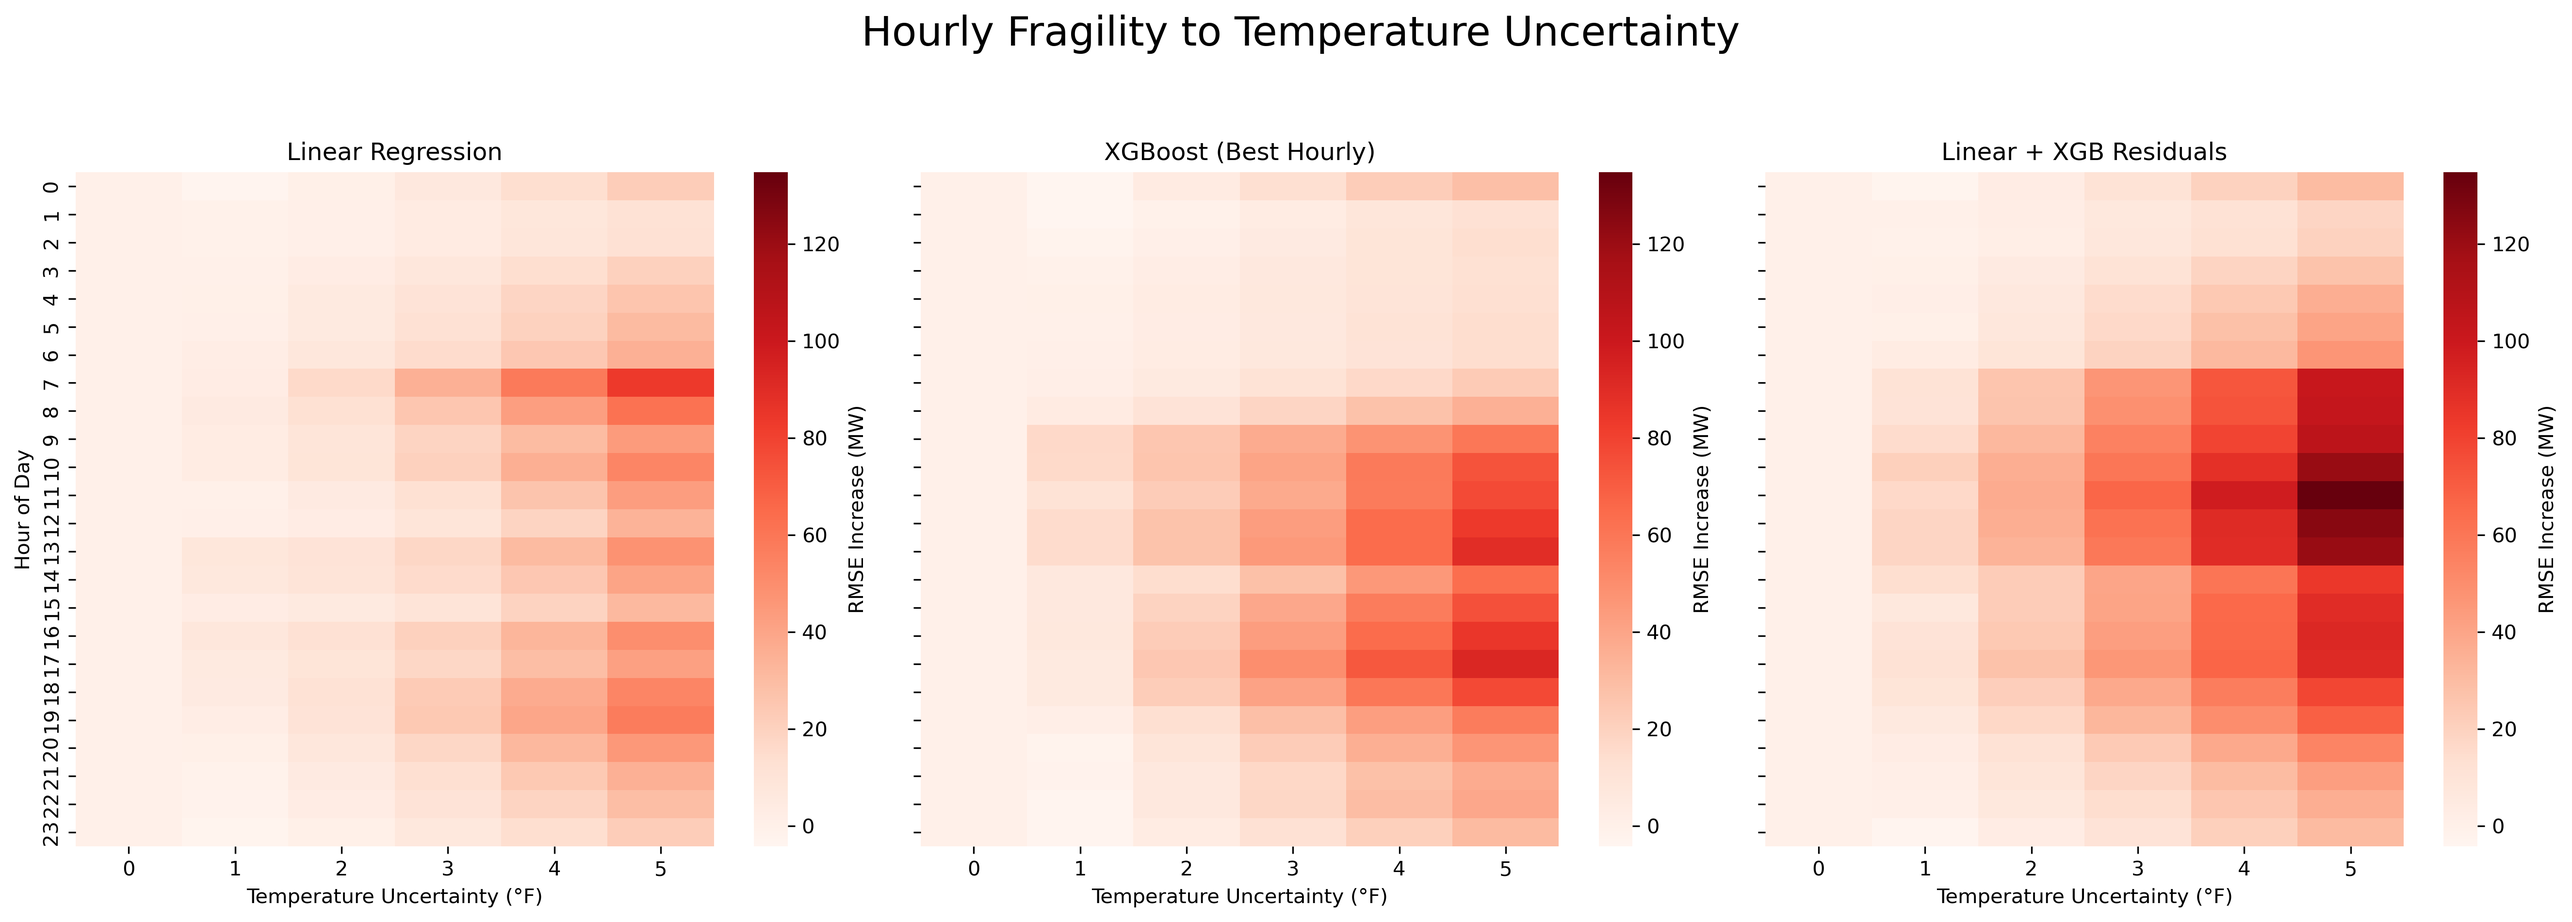
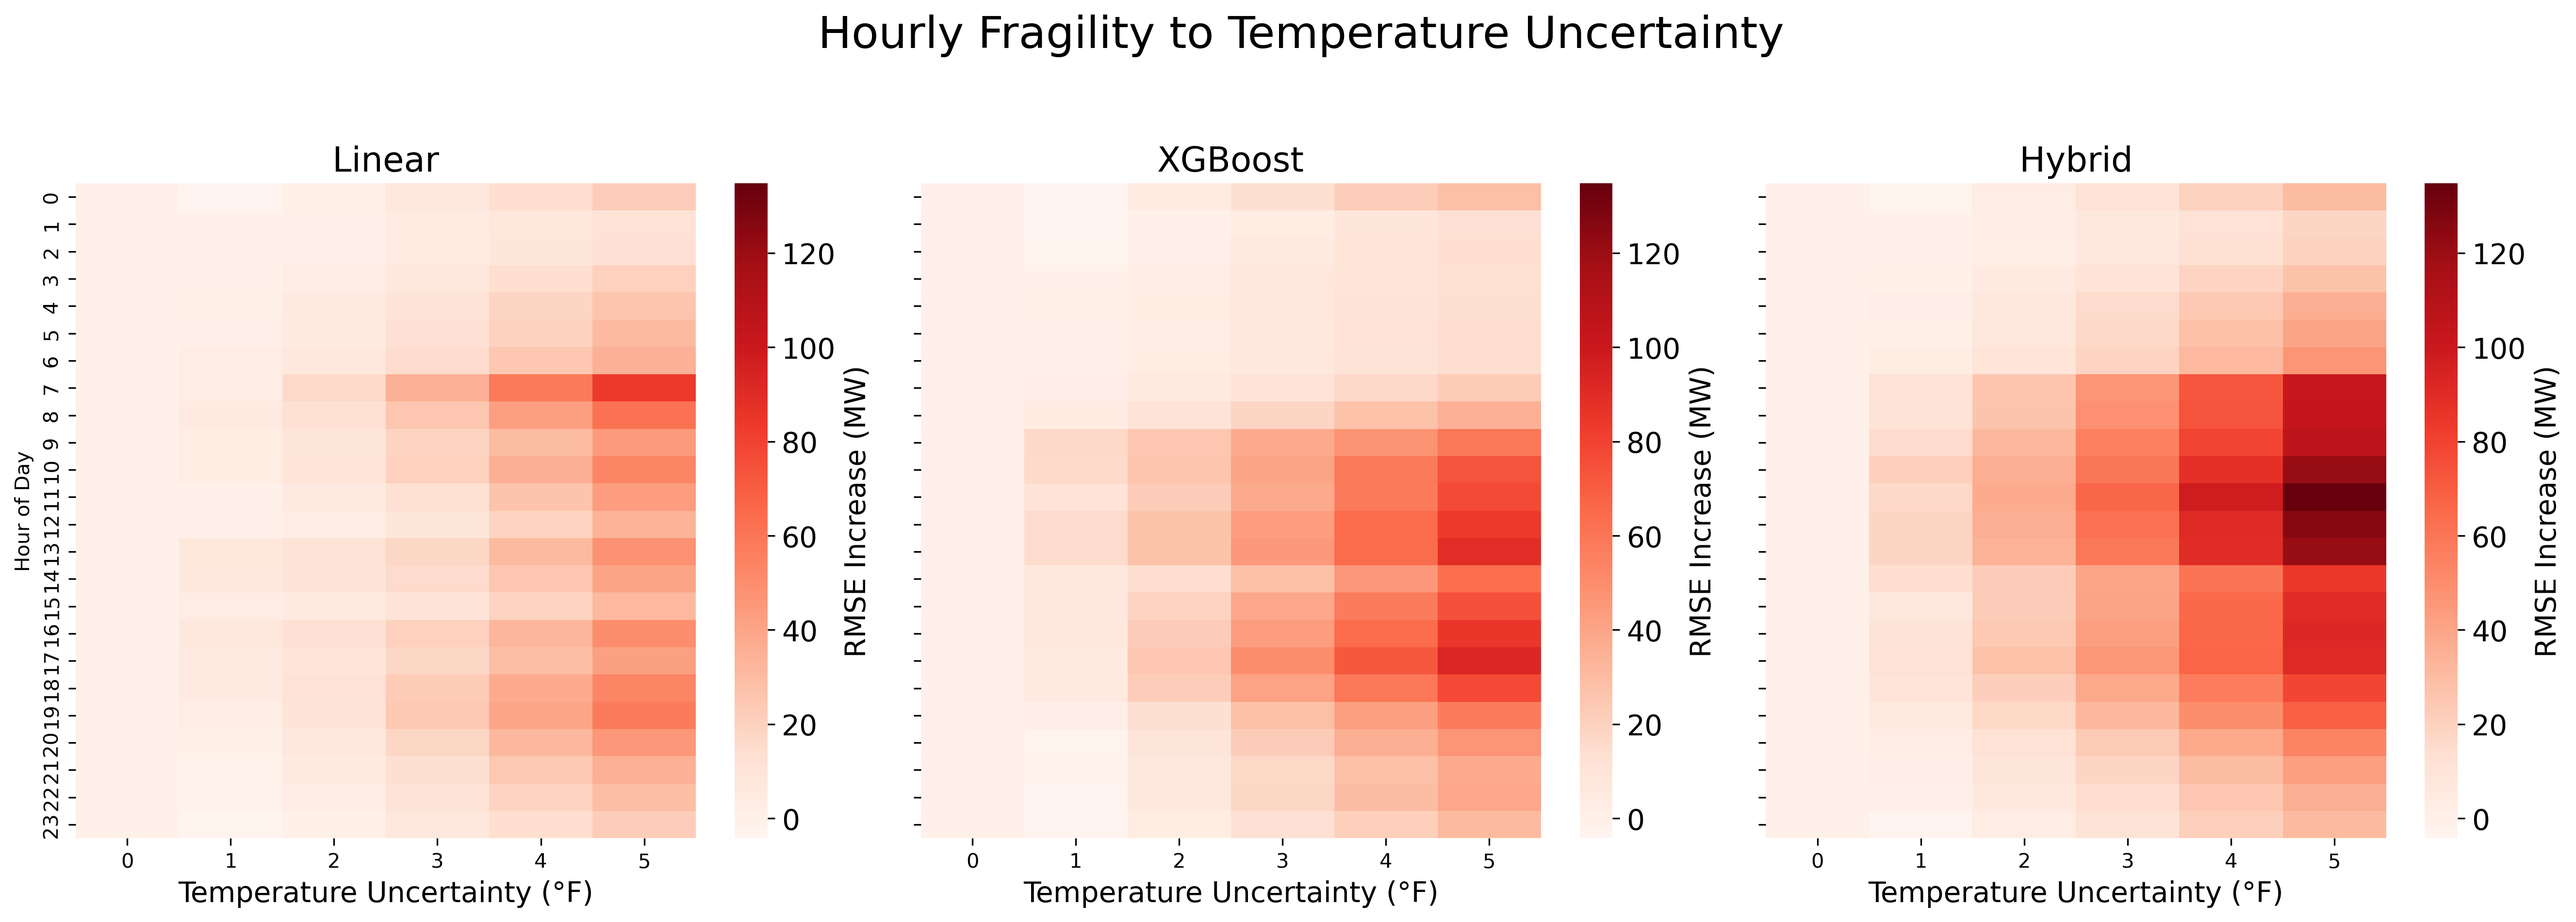
updated results, cleaned plots

diff --git a/src/results/create_plots.py b/src/results/create_plots.py
@@ -22,12 +22,12 @@ hour_df = pd.read_csv(ROOT / "data" / "results" / "day_ahead_temp_uncertainty_fi
 
 model_class_names = ["linears", "xgb_best_per_hour", "lin_xgb_best_per_hour"]
 model_class_titles = {
-    "linears": "Linear Regression",
-    "xgb_best_per_hour": "XGBoost (Best Hourly)",
-    "lin_xgb_best_per_hour": "Linear + XGB Residuals"
+    "linears": "Linear",
+    "xgb_best_per_hour": "XGBoost",
+    "lin_xgb_best_per_hour": "Hybrid"
 }
 
-title_font = 16
+title_font = 14
 label_font = 14
 tick_font = 12
 legend_font = 12
@@ -67,7 +67,6 @@ bars_total = ax.bar(x - width/2, total_rmse_vals, width, label='All Hours', colo
 bars_top10 = ax.bar(x + width/2, top10_rmse_vals, width, label='Top 10% Load', color=bar_colors[1])
 
 ax.set_ylabel('RMSE (MW)', fontsize=label_font)
-ax.set_title("RMSE Comparison Using True Future Temperatures\n(All Hours vs Top 10% Load)", fontsize=14)
 ax.set_xticks(x)
 ax.set_xticklabels([model_class_titles[m] for m in model_class_names], fontsize=tick_font)
 ax.legend(fontsize=legend_font)
@@ -81,6 +80,7 @@ for b in bars_total + bars_top10:
                 textcoords="offset points",
                 ha='center', va='bottom')
 
+plt.suptitle("RMSE Comparison Under Ideal Conditions\n(All Hours vs Top 10% Load)", fontsize=title_font + 2)
 plt.tight_layout()
 fig.savefig(ROOT / "plots" / "baseline_top10_rmse_bar.png", dpi=300, bbox_inches="tight")
 
@@ -102,20 +102,52 @@ for i, (rmse_df, title) in enumerate([(test_rmse, "Total RMSE"), (top_10_pct_loa
                             df['test_error'] - df['test_std'],
                             df['test_error'] + df['test_std'],
                             alpha=alpha_std, color=palette[j])
-    ax.set_title(f"{title} vs Temperature Uncertainty", fontsize=14)
+    ax.set_title(f"{title} vs Temperature Uncertainty", fontsize=title_font)
     ax.set_xlabel("Temperature Uncertainty (°F)", fontsize=label_font)
-    ax.set_ylabel("RMSE (MW)", fontsize=label_font)
+    if i==0:
+        ax.set_ylabel("RMSE (MW)", fontsize=label_font)
     ax.set_xlim(0, temp_unc_limit)
-    ax.set_ylim(0, 500)
+    ax.set_ylim(0, 400)
     ax.grid(True, alpha=0.3)
     ax.tick_params(axis='both', labelsize=tick_font)
 
 handles, labels = axes[0].get_legend_handles_labels()
-fig.legend(handles, labels, loc='center right', bbox_to_anchor=(1.08, 0.5),
+fig.legend(handles, labels, loc='center right', bbox_to_anchor=(0.17, 0.715),
            title='Models', fontsize=legend_font, title_fontsize=legend_font)
+
+plt.suptitle("Model Performance vs Temperature Forecast Uncertainty (2022 Test Set)", fontsize=title_font+2)
 plt.tight_layout(rect=[0,0,0.88,1])
 fig.savefig(ROOT / "plots" / "baseline_top10_rmse_uncertainty_plot.png", dpi=300, bbox_inches="tight")
 
+# Isolate Top 10% Load RMSE plot
+
+fig, ax = plt.subplots(figsize=(8,5))  # single plot, adjust size as needed
+
+for j, model_name in enumerate(model_class_names):
+    df = top_10_pct_load_df[top_10_pct_load_df['model_name']==model_name].copy()
+    df = df[df['temp_uncertainty'] <= temp_unc_limit].sort_values('temp_uncertainty')
+    
+    ax.plot(df['temp_uncertainty'], df['test_error'],
+            marker='o', linewidth=line_width, markersize=marker_size,
+            color=palette[j], label=model_class_titles[model_name])
+    
+    if 'test_std' in df.columns:
+        ax.fill_between(df['temp_uncertainty'],
+                        df['test_error'] - df['test_std'],
+                        df['test_error'] + df['test_std'],
+                        alpha=alpha_std, color=palette[j])
+
+ax.set_title("RMSE vs Temperature Uncertainty over Top 10% Load Hours", fontsize=title_font)
+ax.set_xlabel("Temperature Uncertainty (°F)", fontsize=label_font)
+ax.set_ylabel("RMSE (MW)", fontsize=label_font)
+ax.set_xlim(0, temp_unc_limit)
+ax.set_ylim(0, 400)
+ax.grid(True, alpha=0.3)
+ax.tick_params(axis='both', labelsize=tick_font)
+ax.legend(fontsize=legend_font, loc="lower right")
+
+plt.tight_layout()
+fig.savefig(ROOT / "plots" / "top10_load_rmse_uncertainty_plot.png", dpi=300, bbox_inches="tight")
 
 # Seasonal Absolute RMSE
 
@@ -144,10 +176,11 @@ for i, season_key in enumerate(['Winter','Summer']):
     ax.tick_params(axis='both', labelsize=tick_font)
 
 handles, labels = axes[0].get_legend_handles_labels()
-fig.legend(handles, labels, loc='center right', bbox_to_anchor=(1.08, 0.5),
+fig.legend(handles, labels, loc='center right', bbox_to_anchor=(0.27, 0.65),
            title='Models', fontsize=legend_font, title_fontsize=legend_font)
-plt.suptitle("Model Performance Across Seasons", fontsize=title_font+2)
 
+
+plt.suptitle("Model Performance vs Season (2022 Test Set)", fontsize=title_font+2)
 plt.tight_layout(rect=[0,0,0.88,0.95])
 fig.savefig(ROOT / "plots" / "seasonal_rmse_uncertainty_plot.png", dpi=300, bbox_inches="tight")
 
@@ -165,51 +198,57 @@ for i, model_name in enumerate(model_class_names):
     heatmap_data = df.pivot(index='Hour', columns='temp_uncertainty', values='test_error')
     sns.heatmap(heatmap_data, ax=ax, cmap='viridis', annot=False,
                 vmin=vmin, vmax=vmax, cbar_kws={'label':'RMSE (MW)'})
-    ax.set_title(model_class_titles[model_name])
-    ax.set_xlabel("Temperature Uncertainty (°F)")
+
+    cbar = ax.collections[0].colorbar
+    cbar.ax.tick_params(labelsize=14)  # Tick labels
+    cbar.set_label('RMSE Increase (MW)', fontsize=14)  # Label
+
+    ax.set_title(model_class_titles[model_name], fontsize = 17)
+    ax.set_xlabel("Temperature Uncertainty (°F)", fontsize = 14)
     if i == 0:
-        ax.set_ylabel("Hour of Day")
+        ax.set_ylabel("Hour of Day", fontsize = 14)
     else:
         ax.set_ylabel("")
-plt.suptitle("Hourly Model Performance Across Temperature Uncertainty", fontsize=20, y=1.05)
+plt.suptitle("Hourly Model Performance Across Temperature Uncertainty", fontsize=title_font + 8, y=1.05)
 plt.tight_layout()
 
 fig.savefig(ROOT / "plots" / "hourly_rmse_uncertainty_heatmap.png", dpi=300, bbox_inches="tight")
 
 
-# ------------------------
-# 5⃣ Hourly RMSE Increase Heatmap
-# ------------------------
 
-# Compute baseline RMSE per model & hour (temp_uncertainty=0)
+# Hourly RMSE Percentage Increase Heatmap
 baseline = hour_df[hour_df['temp_uncertainty']==0][['model_name','Hour','test_error']].rename(columns={'test_error':'baseline_rmse'})
 
-# Merge baseline into full hourly df
 hour_rel_df = hour_df.merge(baseline, on=['model_name','Hour'], how='left')
 
-# Compute absolute RMSE increase
-hour_rel_df['rmse_increase'] = hour_rel_df['test_error'] - hour_rel_df['baseline_rmse']
-
-# Optional: compute percent increase
-# hour_rel_df['rmse_pct_increase'] = 100 * (hour_rel_df['test_error'] - hour_rel_df['baseline_rmse']) / hour_rel_df['baseline_rmse']
+# Compute percentage increase
+hour_rel_df['rmse_pct_increase'] = 100 * (hour_rel_df['test_error'] - hour_rel_df['baseline_rmse']) / hour_rel_df['baseline_rmse']
 
 hour_rel_df_filtered = hour_rel_df[hour_rel_df['temp_uncertainty']<=temp_unc_limit]
-vmin = hour_rel_df_filtered['rmse_increase'].min()
-vmax = hour_rel_df_filtered['rmse_increase'].max()
+
+vmin = hour_rel_df_filtered['rmse_pct_increase'].min()
+vmax = hour_rel_df_filtered['rmse_pct_increase'].max()
 
 fig, axes = plt.subplots(1, len(model_class_names), figsize=(18,6), sharey=True)
 for i, model_name in enumerate(model_class_names):
     ax = axes[i]
     df = hour_rel_df_filtered[hour_rel_df_filtered['model_name']==model_name].copy()
-    heatmap_data = df.pivot(index='Hour', columns='temp_uncertainty', values='rmse_increase')
+    heatmap_data = df.pivot(index='Hour', columns='temp_uncertainty', values='rmse_pct_increase')
+    
     sns.heatmap(heatmap_data, ax=ax, cmap='Reds', annot=False,
-                vmin=vmin, vmax=vmax, cbar_kws={'label':'RMSE Increase (MW)'})
-    ax.set_title(model_class_titles[model_name])
-    ax.set_xlabel("Temperature Uncertainty (°F)")
+                vmin=vmin, vmax=vmax, cbar_kws={'label':'RMSE Increase (%)'})
+
+    cbar = ax.collections[0].colorbar
+    cbar.ax.tick_params(labelsize=14)  # Tick labels
+    cbar.set_label('RMSE Increase (%)', fontsize=14)  # Label
+
+    ax.set_title(model_class_titles[model_name], fontsize=17)
+    ax.set_xlabel("Temperature Uncertainty (°F)", fontsize=14)
     if i == 0:
-        ax.set_ylabel("Hour of Day")
+        ax.set_ylabel("Hour of Day", fontsize=14)
     else:
         ax.set_ylabel("")
-plt.suptitle("Hourly Fragility to Temperature Uncertainty", fontsize=20, y=1.05)
+
+plt.suptitle("Hourly Fragility to Temperature Uncertainty (Percentage Increase from Baseline)", fontsize=title_font + 8, y=1.05)
 plt.tight_layout()
-fig.savefig(ROOT / "plots" / "hourly_fragility_rmse_uncertainty_heatmap.png", dpi=300, bbox_inches="tight")
+fig.savefig(ROOT / "plots" / "hourly_fragility_pct_rmse_uncertainty_heatmap.png", dpi=300, bbox_inches="tight")

diff --git a/src/results/day_ahead_results.py b/src/results/day_ahead_results.py
@@ -5,8 +5,6 @@ import matplotlib.dates as mdates
 import pickle
 
 from sklearn.linear_model import LinearRegression
-from sklearn.linear_model import Ridge
-from sklearn.linear_model import Lasso
 from xgboost import XGBRegressor
 
 from sklearn.metrics import root_mean_squared_error
@@ -34,12 +32,6 @@ df_test = pd.read_csv(test_loc)
 with open(ROOT / "trained_models" / "day_ahead_linears.pkl", 'rb') as file:
     day_ahead_linears = pickle.load(file)
 
-with open(ROOT / "trained_models" / "day_ahead_ridges.pkl", 'rb') as file:
-    day_ahead_ridges = pickle.load(file)
-
-with open(ROOT / "trained_models" / "day_ahead_lassos.pkl", 'rb') as file:
-    day_ahead_lassos = pickle.load(file)
-
 with open(ROOT / "trained_models" / "day_ahead_xgbs_best_per_hour_xgbs.pkl", 'rb') as file:
     day_ahead_xgbs_best_per_hour_xgbs = pickle.load(file)
 
@@ -61,16 +53,14 @@ best_max_hour_xgb_hyperparams = pd.read_csv(ROOT / "src" / "models" / "best_max_
 splits_df_loc = ROOT / "data" / "splits" / "split_bounds.csv"
 splits_df = pd.read_csv(splits_df_loc)
 
-ridge_alpha = 32
-lasso_alpha = 3.6
 
 input_df_train = df_train[["timestamp", "Load", "Hour"] + ["temp_actual", "temp_6h_actual", "CDH_actual", "HDH_actual", "temp_actual_lag_24h", "Load_lag_24h", "Load_lag_48h", "is_weekend", "is_notable_day"]
 ]
 input_df_test = df_test[["timestamp", "Load", "Hour"] + ["temp_actual", "temp_6h_actual", "CDH_actual", "HDH_actual", "temp_actual_lag_24h", "Load_lag_24h", "Load_lag_48h", "is_weekend", "is_notable_day"]
 ]
 
-model_names = ["linears", "ridges", "lassos", "xgb_best_per_hour", "xgb_best_max_hour", "lin_xgb_best_per_hour", "lin_xgb_best_max_hour"]
-models = {"linears": [day_ahead_linears], "ridges": [day_ahead_ridges], "lassos": [day_ahead_lassos], "xgb_best_per_hour": [day_ahead_xgbs_best_per_hour_xgbs], "xgb_best_max_hour": [day_ahead_xgbs_best_max_hour_xgbs], "lin_xgb_best_per_hour" : [day_ahead_linears, day_ahead_lin_xgbs_best_per_hour_xgbs], "lin_xgb_best_max_hour" : [day_ahead_linears, day_ahead_lin_xgbs_best_max_hour_xgbs]}
+model_names = ["linears", "xgb_best_per_hour", "xgb_best_max_hour", "lin_xgb_best_per_hour", "lin_xgb_best_max_hour"]
+models = {"linears": [day_ahead_linears], "xgb_best_per_hour": [day_ahead_xgbs_best_per_hour_xgbs], "xgb_best_max_hour": [day_ahead_xgbs_best_max_hour_xgbs], "lin_xgb_best_per_hour": [day_ahead_linears, day_ahead_lin_xgbs_best_per_hour_xgbs], "lin_xgb_best_max_hour": [day_ahead_linears, day_ahead_lin_xgbs_best_max_hour_xgbs]}
 
 errors_dict = {"model_name": model_names, "train_error" : [], "validation_error": [], "validation_std": [], "test_error": [], "test_error_pct_max": []}
 

diff --git a/src/results/day_ahead_temp_uncertainty_filter_hour.py b/src/results/day_ahead_temp_uncertainty_filter_hour.py
@@ -5,8 +5,6 @@ import matplotlib.dates as mdates
 import pickle
 
 from sklearn.linear_model import LinearRegression
-from sklearn.linear_model import Ridge
-from sklearn.linear_model import Lasso
 from xgboost import XGBRegressor
 
 from sklearn.metrics import root_mean_squared_error
@@ -36,9 +34,9 @@ input_df_train = df_train[["timestamp", "Load", "Hour"] + ["temp_actual", "temp_
 input_df_test = df_test[["timestamp", "Load", "Hour"] + ["temp_actual", "temp_6h_actual", "CDH_actual", "HDH_actual", "temp_actual_lag_24h", "Load_lag_24h", "Load_lag_48h", "is_weekend", "is_notable_day"]
 ]
 
-temp_uncertainties = [i for i in range (1, 11)]
+temp_uncertainties = [i for i in range (1, 6)]
 
-model_names = ["linears", "ridges", "lassos", "xgb_best_per_hour", "xgb_best_max_hour", "lin_xgb_best_per_hour", "lin_xgb_best_max_hour"]
+model_names = ["linears", "xgb_best_per_hour", "xgb_best_max_hour", "lin_xgb_best_per_hour", "lin_xgb_best_max_hour"]
 
 hour_filters = []
 

diff --git a/src/results/day_ahead_temp_uncertainty_filter_none.py b/src/results/day_ahead_temp_uncertainty_filter_none.py
@@ -36,9 +36,9 @@ input_df_train = df_train[["timestamp", "Load", "Hour"] + ["temp_actual", "temp_
 input_df_test = df_test[["timestamp", "Load", "Hour"] + ["temp_actual", "temp_6h_actual", "CDH_actual", "HDH_actual", "temp_actual_lag_24h", "Load_lag_24h", "Load_lag_48h", "is_weekend", "is_notable_day"]
 ]
 
-temp_uncertainties = [i for i in range (1, 11)]
+temp_uncertainties = [i for i in range (1, 6)]
 
-model_names = ["linears", "ridges", "lassos", "xgb_best_per_hour", "xgb_best_max_hour", "lin_xgb_best_per_hour", "lin_xgb_best_max_hour"]
+model_names = ["linears", "xgb_best_per_hour", "xgb_best_max_hour", "lin_xgb_best_per_hour", "lin_xgb_best_max_hour"]
 
 temp_uncertainties_df = monte_carlo_temp_sensitivity(input_df_test, model_names, temp_uncertainties, n_simulations=100, base_t=60, filter_fn=None)
 

diff --git a/src/results/day_ahead_temp_uncertainty_filter_top_10_pct_load.py b/src/results/day_ahead_temp_uncertainty_filter_top_10_pct_load.py
@@ -36,9 +36,9 @@ input_df_train = df_train[["timestamp", "Load", "Hour"] + ["temp_actual", "temp_
 input_df_test = df_test[["timestamp", "Load", "Hour"] + ["temp_actual", "temp_6h_actual", "CDH_actual", "HDH_actual", "temp_actual_lag_24h", "Load_lag_24h", "Load_lag_48h", "is_weekend", "is_notable_day"]
 ]
 
-temp_uncertainties = [i for i in range (1, 11)]
+temp_uncertainties = [i for i in range (1, 6)]
 
-model_names = ["linears", "ridges", "lassos", "xgb_best_per_hour", "xgb_best_max_hour", "lin_xgb_best_per_hour", "lin_xgb_best_max_hour"]
+model_names = ["linears", "xgb_best_per_hour", "xgb_best_max_hour", "lin_xgb_best_per_hour", "lin_xgb_best_max_hour"]
 
 top_10_pct_load_filter = lambda df: df["Load"] >= df["Load"].quantile(0.90)
 

diff --git a/src/results/day_ahead_temp_uncertainty_filter_season.py b/src/results/day_ahead_temp_uncertainty_filter_season.py
@@ -36,9 +36,9 @@ input_df_train = df_train[["timestamp", "Load", "Hour"] + ["temp_actual", "temp_
 input_df_test = df_test[["timestamp", "Load", "Hour"] + ["temp_actual", "temp_6h_actual", "CDH_actual", "HDH_actual", "temp_actual_lag_24h", "Load_lag_24h", "Load_lag_48h", "is_weekend", "is_notable_day"]
 ]
 
-temp_uncertainties = [i for i in range (1, 11)]
+temp_uncertainties = [i for i in range (1, 6)]
 
-model_names = ["linears", "ridges", "lassos", "xgb_best_per_hour", "xgb_best_max_hour", "lin_xgb_best_per_hour", "lin_xgb_best_max_hour"]
+model_names = ["linears", "xgb_best_per_hour", "xgb_best_max_hour", "lin_xgb_best_per_hour", "lin_xgb_best_max_hour"]
 
 summer_months = [6, 7, 8, 9]
 winter_months = [11, 12, 1, 2]

diff --git a/src/results/day_ahead_temp_uncertainty_filter_weekend.py b/src/results/day_ahead_temp_uncertainty_filter_weekend.py
@@ -38,7 +38,7 @@ input_df_test = df_test[["timestamp", "Load", "Hour"] + ["temp_actual", "temp_6h
 
 temp_uncertainties = [i for i in range (1, 11)]
 
-model_names = ["linears", "ridges", "lassos", "xgb_best_per_hour", "xgb_best_max_hour", "lin_xgb_best_per_hour", "lin_xgb_best_max_hour"]
+model_names = ["linears", "xgb_best_per_hour", "xgb_best_max_hour", "lin_xgb_best_per_hour", "lin_xgb_best_max_hour"]
 
 weekend_filter = lambda df: df["is_weekend"] == 1
 weekday_filter = lambda df: df["is_weekend"] == 0
